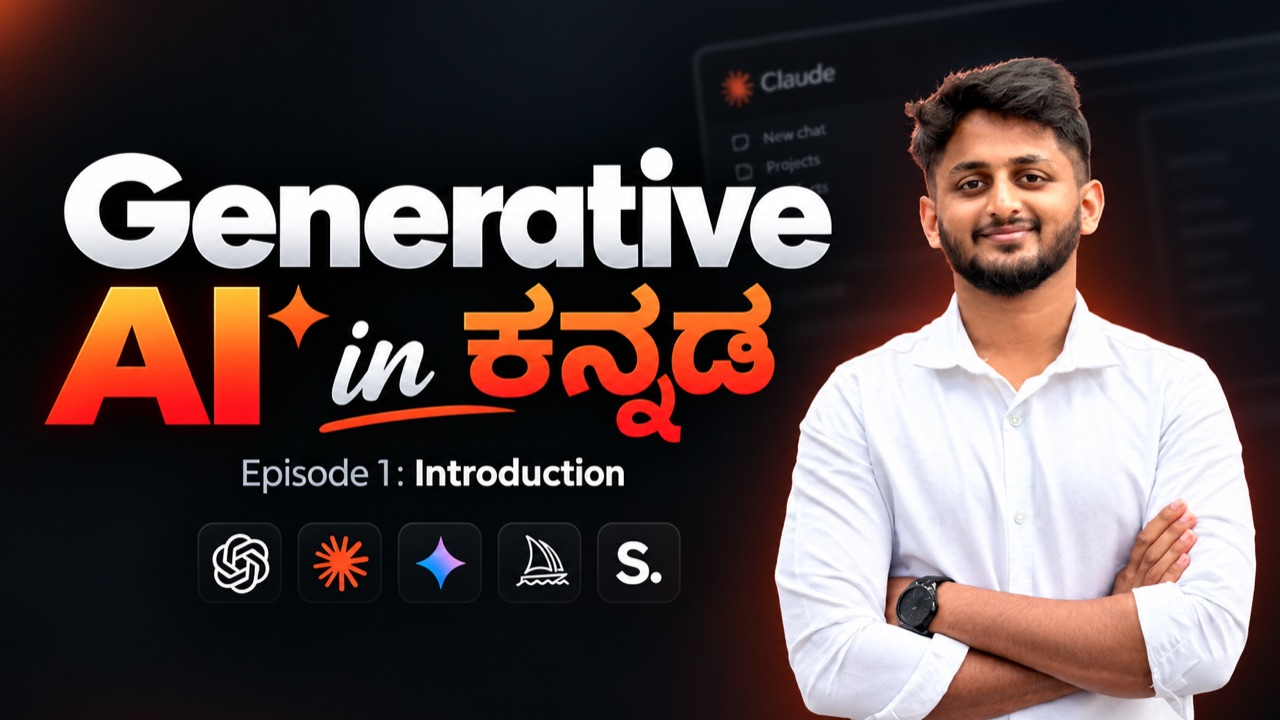
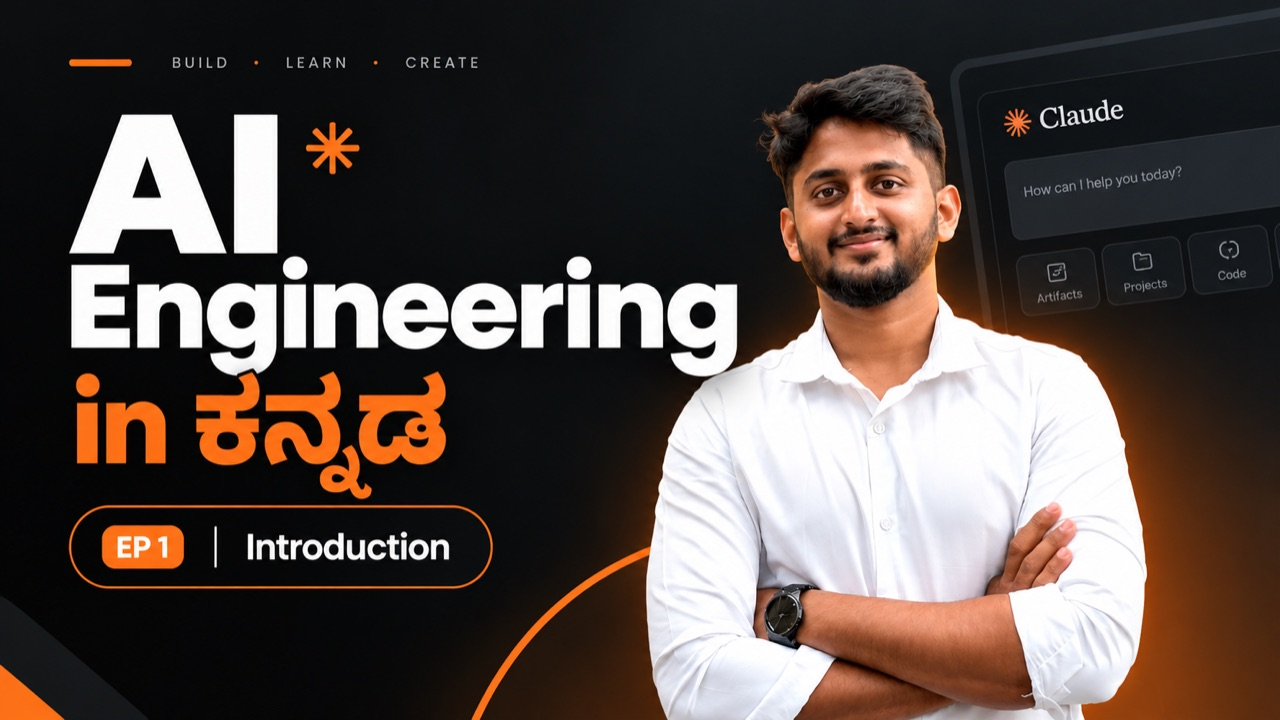
Changing the thumbnail

diff --git a/README.md b/README.md
@@ -4,7 +4,7 @@ This repository contains AI course materials and learning resources shared in Ka
 
 ## Course videos
 
-[![Generative AI in Kannada — watch the course on YouTube](assets/course-thumbnail.jpg)](https://youtube.com/playlist?list=PLEGzkK9VVrK8)
+<a href="https://youtube.com/playlist?list=PLEGzkK9VVrK8"><img src="assets/course-thumbnail.jpg" alt="AI Engineering in Kannada — watch the course on YouTube" width="50%"></a>
 
 [![Watch the course on YouTube](https://img.shields.io/badge/YouTube-Watch%20the%20course%20playlist-FF0000?style=for-the-badge&logo=youtube&logoColor=white)](https://youtube.com/playlist?list=PLEGzkK9VVrK8)
 
